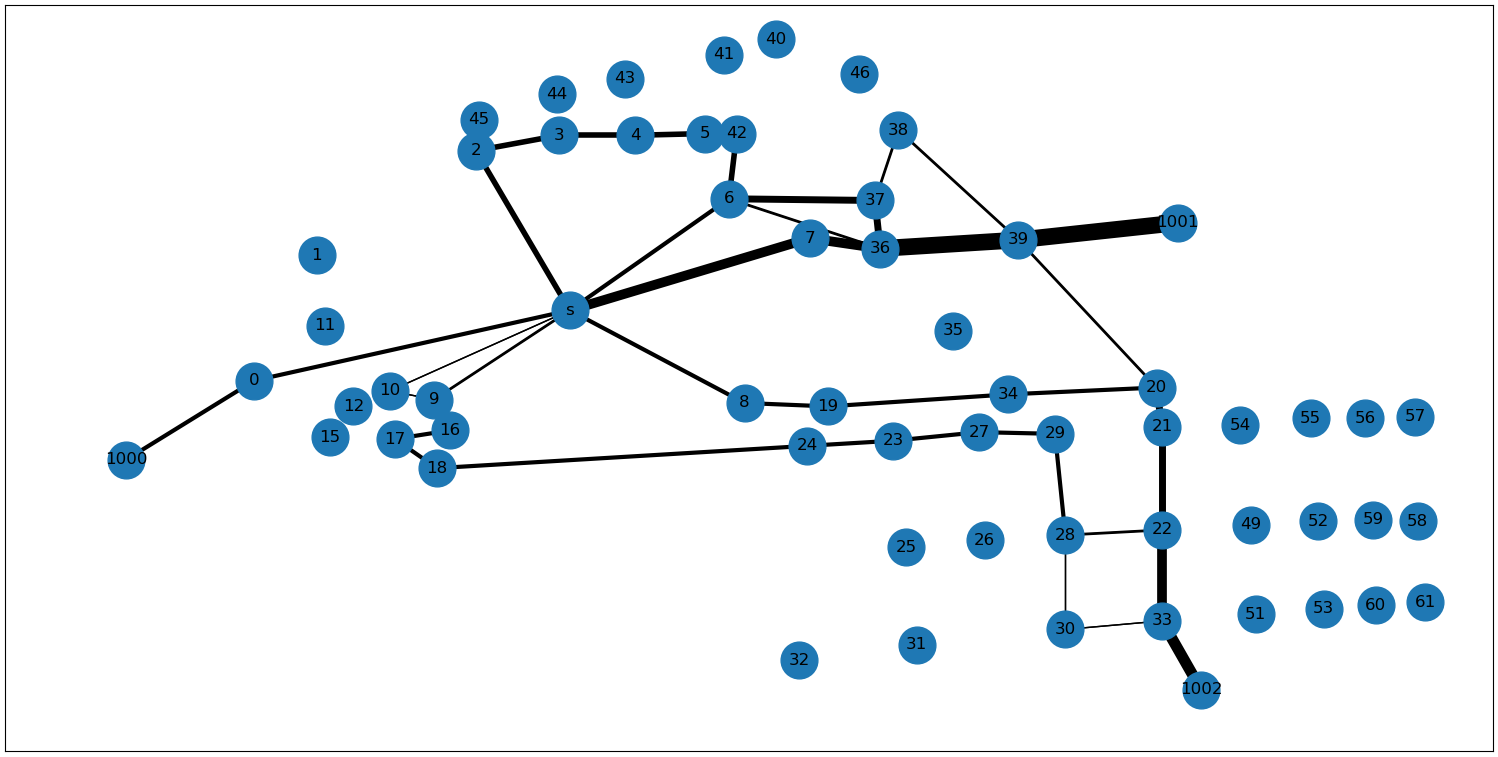
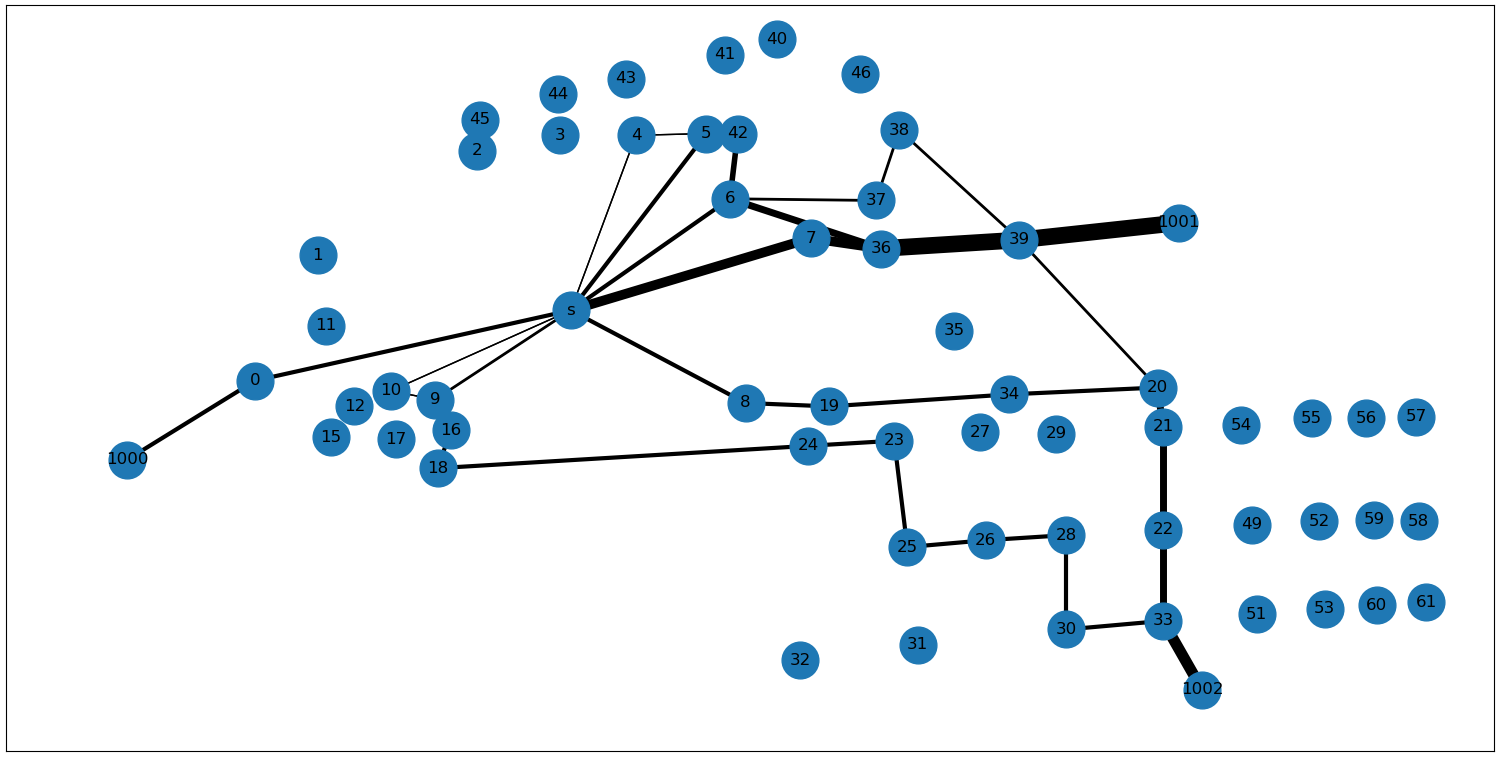
powerpointing

diff --git a/main.py b/main.py
@@ -3,7 +3,7 @@ import matplotlib.pyplot as plt
 import networkx as nx
 import numpy as np
 
-DATA = [('s',0,4),('s',2,4),('s',2,3),('s',3,4),('s',4,4),('s',5,3),('s',6,3),('s',7,7),('s',8,3),('s',9,2),('s',10,2),(0,1000,3),(1,11,5),(1,45,5),(2,45,5),(45,44,5),(44,43,5),(43,41,5),(2,3,4),(3,4,4),(4,5,4),(5,42,4),(41,42,4),(42,6,4),(41,40,5),(40,46,2),(46,38,6),(38,37,6),(6,37, 5),(6,36,5),(37,36,5),(7,36,7),(36,39,12),(38,39,3),(3,44,1),(39,1001,12),(39,20,4),(36,35,3),(35,34,3),(19,34,3),(8,19,6),(19,23,1),(24,23,4),(18,24,3),(23,25,3),(23,27,4),(27,29,4),(29,21,4),(20,21,11),(21,54,3),(54,55,3),(25,31,4),(31,32,4),(25,26,5),(26,28,5),(29,28,4),(28,30,4),(30,33,3),(28,22,4),(21,22,7),(22,33,7),(33,1002,8),(51,33,7),(53,51,2),(52,53,2),(52,49,5),(55,52,2),(54,49,3),(49,51,3),(22,49,5),(10,12,5),(10,9,5),(9,16,4),(12,15,4),(12,11,5),(15,17,3), (16,17,5),(16,18,3),(17,18,4), (34,20,4),(61,58,3),(58,57,3),(60,59,3),(59,56,3),(55,56,3),(56,57,4),(59,58,1),(59,52,4),(61,60,3),(60,53,3) ]
+DATA = [('s',0,4),('s',2,4),('s',2,3),('s',3,4),('s',4,4),('s',5,3),('s',6,3),('s',7,7),('s',8,3),('s',16,2),('s',10,2),(0,1000,3),(1,11,5),(1,45,5),(2,45,5),(45,44,5),(44,43,5),(43,41,5),(2,3,4),(3,4,4),(4,5,4),(5,42,4),(41,42,4),(42,6,4),(41,40,5),(40,46,2),(46,38,6),(38,37,6),(6,37, 5),(6,36,5),(37,36,5),(7,36,7),(36,39,12),(38,39,3),(3,44,1),(39,1001,12),(39,20,4),(36,35,3),(35,34,3),(19,34,3),(8,19,6),(19,23,1),(24,23,4),(18,24,3),(23,25,3),(23,27,4),(27,29,4),(29,21,4),(20,21,11),(21,54,3),(54,55,3),(25,31,4),(31,32,4),(25,26,5),(26,28,5),(29,28,4),(28,30,4),(30,33,3),(28,22,4),(21,22,7),(22,33,7),(33,1002,8),(51,33,7),(53,51,2),(52,53,2),(52,49,5),(55,52,2),(54,49,3),(49,51,3),(22,49,5),(10,12,5),(10,9,5),(9,16,4),(12,15,4),(12,11,5),(15,17,3), (16,17,5),(16,18,3),(17,18,4), (34,20,4),(61,58,3),(58,57,3),(60,59,3),(59,56,3),(55,56,3),(56,57,4),(59,58,1),(59,52,4),(61,60,3),(60,53,3), (16,8,1), (15,1000,1) ]
 Positions = [(0, 89, 238), (1, 113, 165), (2, 174, 104), (3, 206, 95), (4, 235, 95), (5, 262, 94), (6, 271, 132), (7, 302, 155), (8, 277, 251), (9, 158, 249), (10, 141, 244), (11, 116, 206), (12, 127, 253), (15, 118, 271), (16, 164, 267), (17, 143, 272), (18, 159, 289), (19, 309, 253), (20, 435, 242), (21, 437, 265), (22, 437, 325), (23, 334, 273), (24, 301, 276), (25, 339, 335), (26, 369, 331), (27, 367, 268), (28, 400, 328), (29, 396, 269), (30, 400, 383), (31, 343, 392), (32, 298, 401), (33, 437, 378), (34, 378, 246), (35, 357, 209), (36, 329, 161), (37, 327, 133), (38, 336, 92), (39, 382, 156), (40, 289, 39), (41, 269, 48), (42, 274, 94), (43, 231, 62), (44, 205, 71), (45, 175, 86), (46, 321, 59), (49, 471, 322), (51, 473, 374), (52, 497, 320), (53, 499, 371), (54, 467, 264), (55, 494, 260), (56, 515, 260), (57, 534, 259), (58, 535, 320), (59, 518, 319), (60, 519, 369), (61, 538, 367), ('s', 210, 197), (1000, 40, 284), (1001, 443, 146), (1002, 452, 418)]
 
 def find(i, pos):
@@ -22,14 +22,16 @@ def show_graph_with_labels(adjacency_matrix, mylabels,path = [],w = 0):
         This function uses [0; |V|] as vertices set (not the strings, nonconsecutive integer mix)
     """
     G = nx.from_numpy_array(adjacency_matrix, parallel_edges=True, create_using=nx.Graph)
-    ly= {i:find(i,Positions) for i in range(len(adjacency_matrix))}
-    #nx.draw_networkx_edge_labels(G,pos=ly)
     N = len(adjacency_matrix)
+    ly= {i:find(i,Positions) for i in range(N)}
+    #ly[N-1] = (40,-418)
+    #mylabels[N-1] = "t"
+    #nx.draw_networkx_edge_labels(G,pos=ly)
     path_edges = {(path[i-1],path[i]) for i in range(1,len(path))}
     couleurs = ['k' if (u,v) not in path_edges and (v,u) not in path_edges else "red" for u,v in G.edges()]
     for u,v in path_edges:
         G[u][v]['weight'] = w
-    poids = [G[u][v]['weight'] for u,v in G.edges()]
+    poids = [G[u][v]['weight'] if G[u][v]['weight']!= float('inf') else 8 for u,v in G.edges()]
 
     nx.draw_networkx_edges(G,pos=ly)
     nx.draw_networkx(G, node_size=700, labels=mylabels, with_labels=True, 
@@ -160,14 +162,13 @@ Vertices = set.union({x for x,_,_ in DATA},{x for _,x,_ in DATA})
 N = len(Vertices)
 
 def rebuild_path(g,partial, start,end):
-    path = []
+    path = [end]
     current = end
     while current !=  start :
         next = partial[current][0]
         path.append(next)
         current = next
     path.reverse()
-    path.append(end)
     return path
 
 def widest_path (g, start, end):
@@ -272,16 +273,16 @@ def find_path(ag):
     """
     bag = q.Queue()
     bag.put(ag.s)
-    dphi = float("inf")
     vus = set()
+    vus.add(ag.s)
     partial = [(-1,float('inf')) for _ in range(ag.size)]
     while not bag.empty():
         current = bag.get()
         dphi = partial[current][1]
         aretes = ag.edges(current)
-        vus.add(current)
         for y,w in aretes:
             if y not in vus:
+                vus.add(y)
                 bag.put(y)
                 partial[y] = (current,min(w,dphi))
     if partial[ag.t][0] != -1 :
@@ -297,6 +298,8 @@ def edmond_karp(g, sinks):
     (found,ap,dphi) = find_path(ag)
     f = init_flow(ag)
     while found:
+        print([rho[e] if e != ag.size -1 else "t" for e in ap],dphi)
+        #show_graph_with_labels(np.matrix([r[0:-1] for r in f.matrix][0:-1]),rho)
         update_flow(f,ap,dphi)
         update_ag(ag,ap,dphi)
 
@@ -340,15 +343,15 @@ def main():
     f = edmond_karp(g,[sigma[1001],sigma[1000], sigma[1002]])
     
     #show_graph_with_labels(np.matrix(g.matrix),rho)
-    #show_graph_with_labels(np.matrix(g.matrix),rho, p,w)
+    #show_graph_with_labels(np.matrix(f.matrix),rho)
     s = 0
-    print(f.s,sigma[s])
-    print(f.matrix[f.s])
+
     for i in range(f.size-1):
         s += f.matrix[f.s][i]
 
     print("\ns:",s)
-    #show_graph_with_labels(np.matrix([r[0:-1] for r in f.matrix][0:-1]),rho)
+
+    show_graph_with_labels(np.matrix([r[0:len(f.matrix)-1] for r in f.matrix][0:len(f.matrix)-1]),rho)
     """
     ex = graph(7)
     ex.matrix = [

diff --git a/pres.md b/pres.md
@@ -390,6 +390,34 @@ Graphe de flot final
 ![ex_f5(final)](images/ex_f5.png)
 
 ---
+## Dans le cas du stade de France
+Capacité proportionnelle à la largeur de la rue.
+Le puit: un noeud fictif relié par des arêtes de capacité maximale aux stations de transport en commun.
+La source : Le stade de France
+Objectif: 
+- Le flot (un débit de personne) maximal, pour évacuer le plus éfficacement la foule.
+---
+### Graphe de capacité
+![alt text](images/fin_graph.png)
+
+---
 ### Résultats expérimentaux
-Largeur : 23, débit : 46 pers/s, temps :30min
-![final flow](images/final_flow.png)
+Largeur : 23, débit : 46 pers/s, temps :30min (W-P: 10, 20 p/s)
+![flot final](images/final_flow.png)
+
+---
+# 5. Analyse des Résultats
+
+---
+## Comparaison W-P v. E-K
+- Chevauchement
+- Efficacité
+- Performance:
+  E-K 2 fois plus rapide pour le même niveau de sécurité
+
+---
+## Critique du résultat
+
+![flow with map](image.png)
+
+

diff --git a/README.md b/README.md
@@ -24,6 +24,8 @@ Publié:
 À venir:
 - résultats experimentaux
 - Revoir l'exemple (que ca emprunte un arc arrière)
+- Refaire les captures car nouveaux noeuds
+
 In english:
 
 /!\ The code might seem heavy or unefficient in some ways but you should keep in mind that the code mainly needs to be easyily manipulated and read (as it should be printed for exam assessors).
@@ -42,4 +44,5 @@ Published:
 Incomming:
 - the results
 - choose an other example to explain the use of back edges
+- remake screenshots because of unknow edges
 
